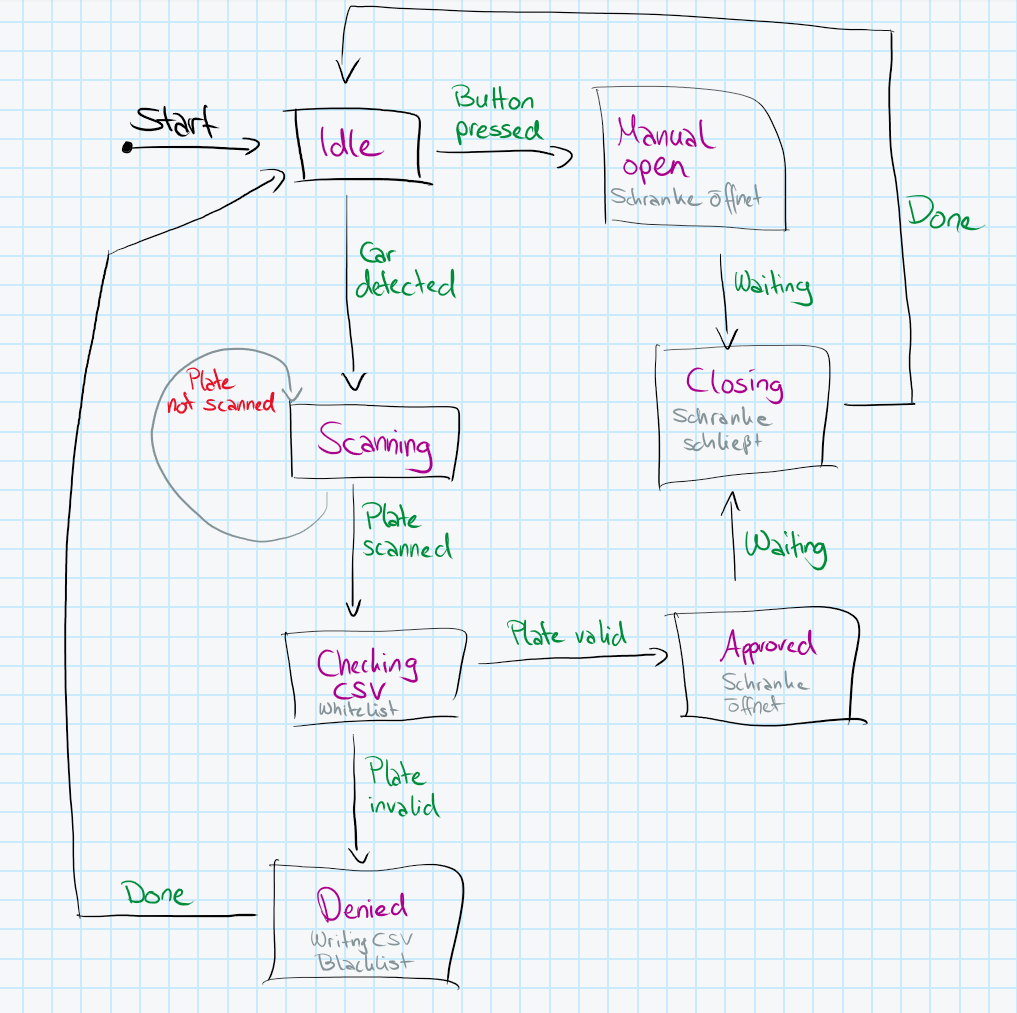
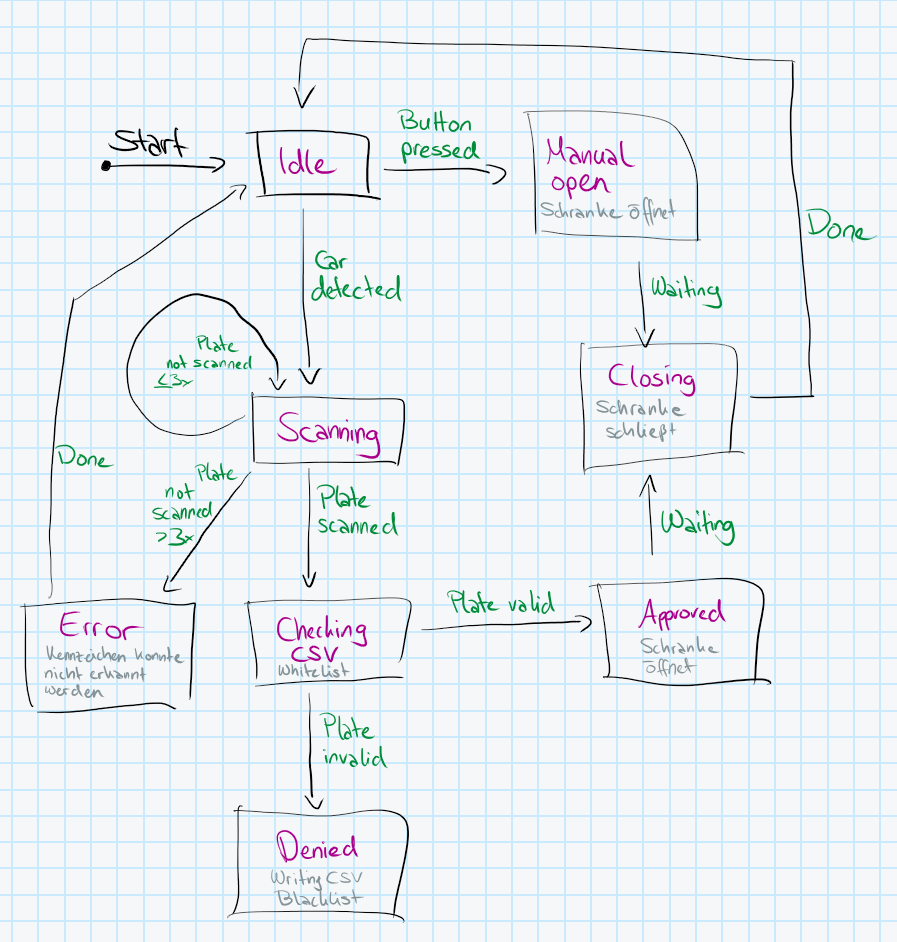
updated state machine

Changed region(s): [[0.0, 0.0, 1.0, 1.0]]

diff --git a/Park-Lounge/include/state_machine.h b/Park-Lounge/include/state_machine.h
@@ -11,6 +11,7 @@ typedef enum
     STATE_CHECKING_CSV, // Kennzeichen wird mit CSV (Whitelist) abgeglichen
     STATE_APPROVED,     // Kennzeichen ist gültig -> Schranke öffnet
     STATE_DENIED,       // Kennzeichen ungültig -> CSV (Blacklist) wird geschrieben
+    STATE_ERROR,        // Kennzeichenerkennung nicht möglich
     STATE_MANUAL_OPEN,  // Button gedrückt -> Schranke öffnet
     STATE_CLOSING,      // Schranke schließt
 } ParkhausState;
@@ -18,13 +19,14 @@ typedef enum
 // Übergänge
 typedef enum
 {
-    CAR_DETECTED,   // Kamera erkennt Auto
-    PLATE_SCANNED,  // Nummernschild wurde gescannt
-    PLATE_VALID,    // Nummernschild ist gültig
-    PLATE_INVALID,  // Nummernschild ist ungültig
-    BUTTON_PRESSED, // Manueller Button wurde gedrückt
-    WAITING,        // Warten bis Schranke schließt
-    DONE            // Übergang zurück zu IDLE
+    CAR_DETECTED,      // Kamera erkennt Auto
+    PLATE_SCANNED,     // Nummernschild wurde gescannt
+    PLATE_NOT_SCANNED, // Nummernschild konnte nicht gescannt werden
+    PLATE_VALID,       // Nummernschild ist gültig
+    PLATE_INVALID,     // Nummernschild ist ungültig
+    BUTTON_PRESSED,    // Manueller Button wurde gedrückt
+    WAITING,           // Warten bis Schranke schließt
+    DONE               // Übergang zurück zu IDLE
 } Transition;
 
 // *** Funktionsprototypen für die Zustandsmaschine ***
